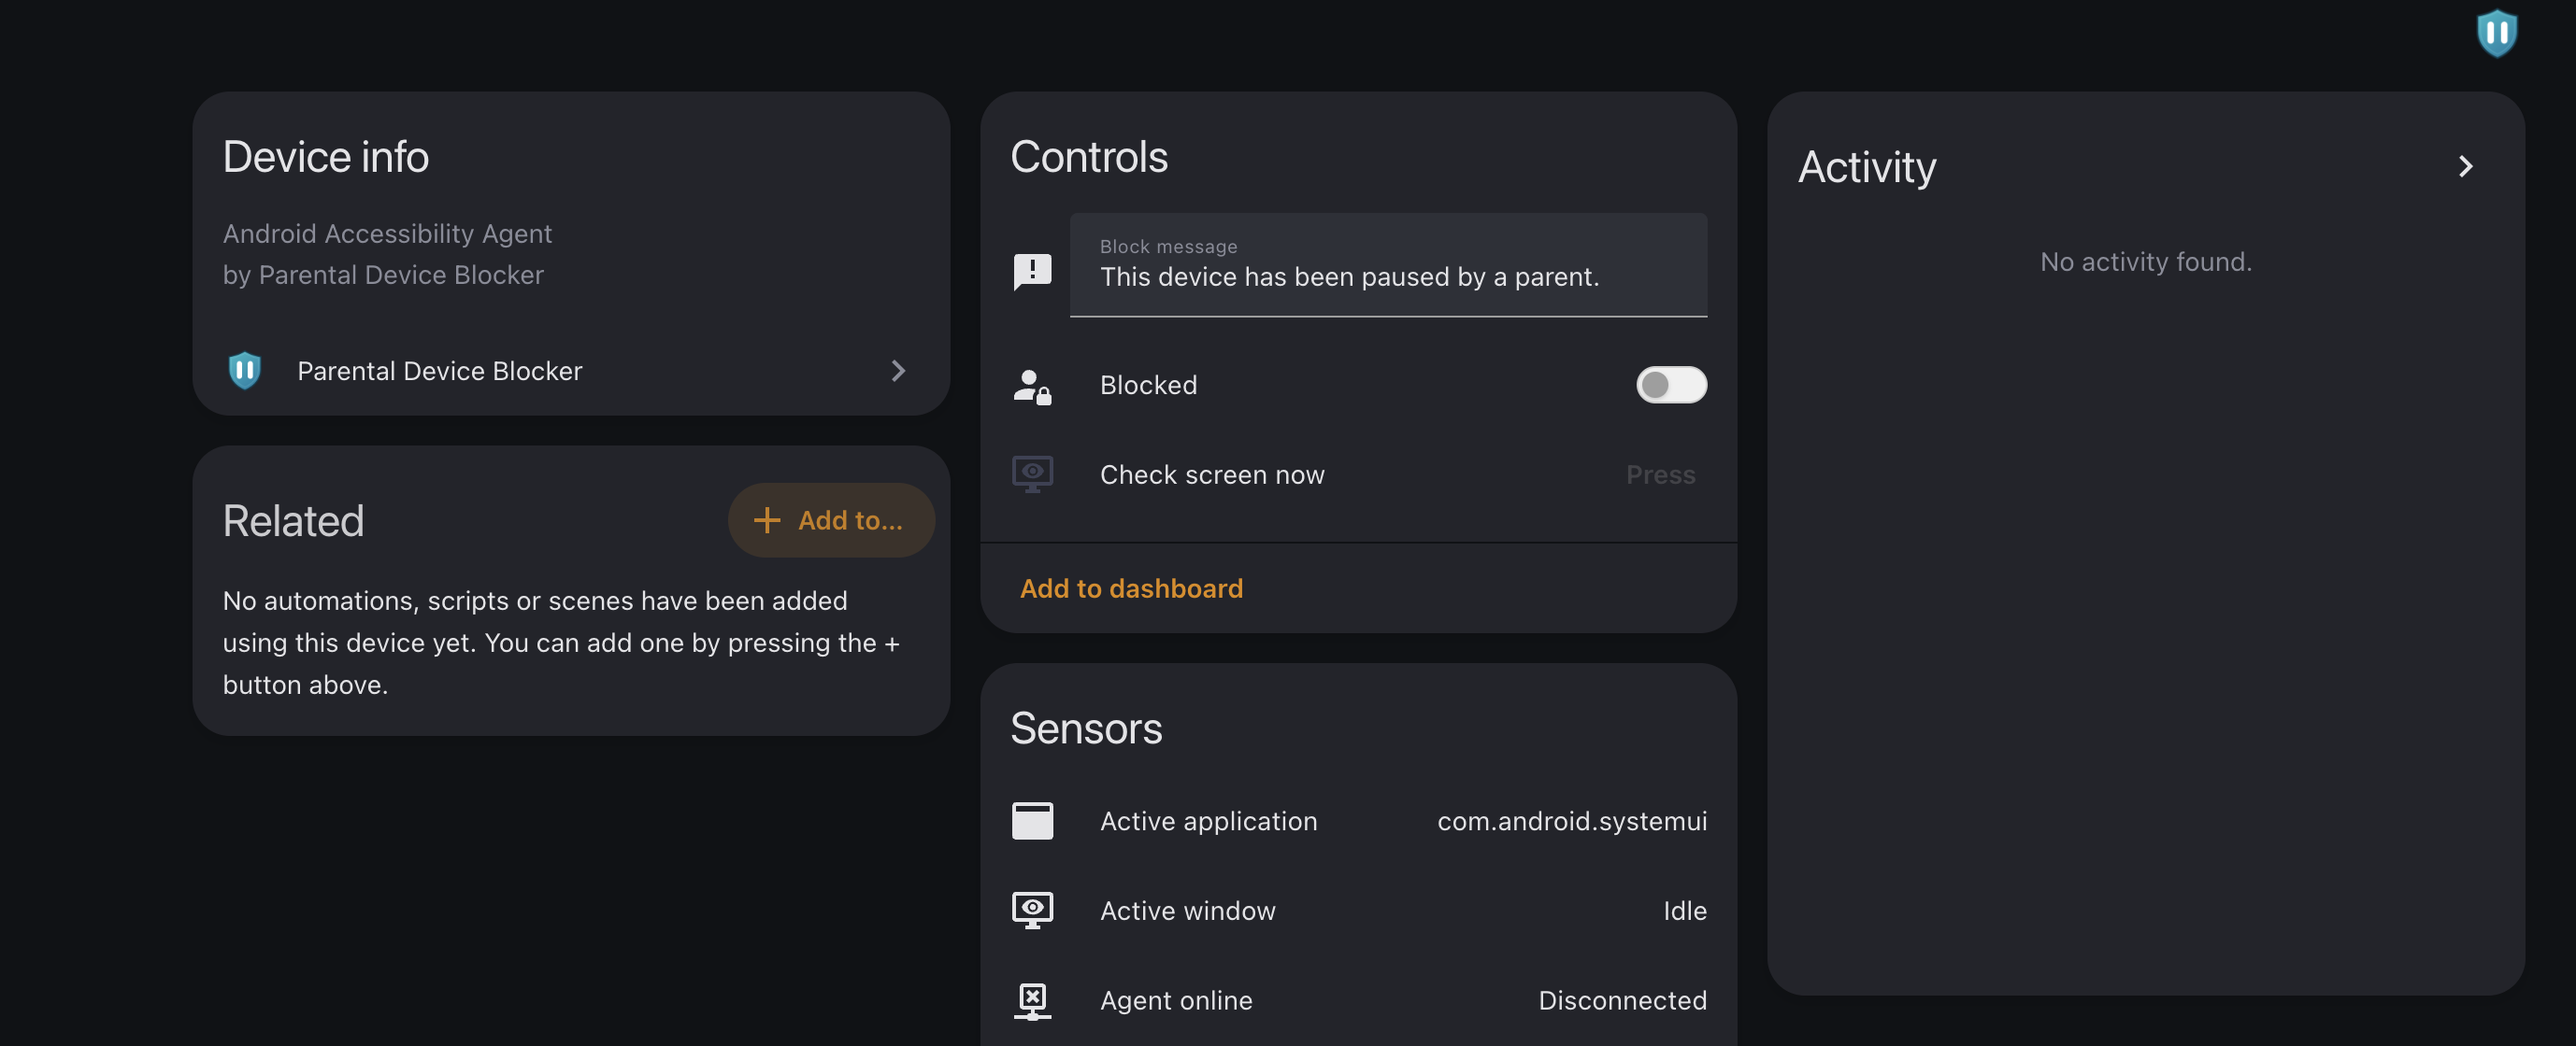
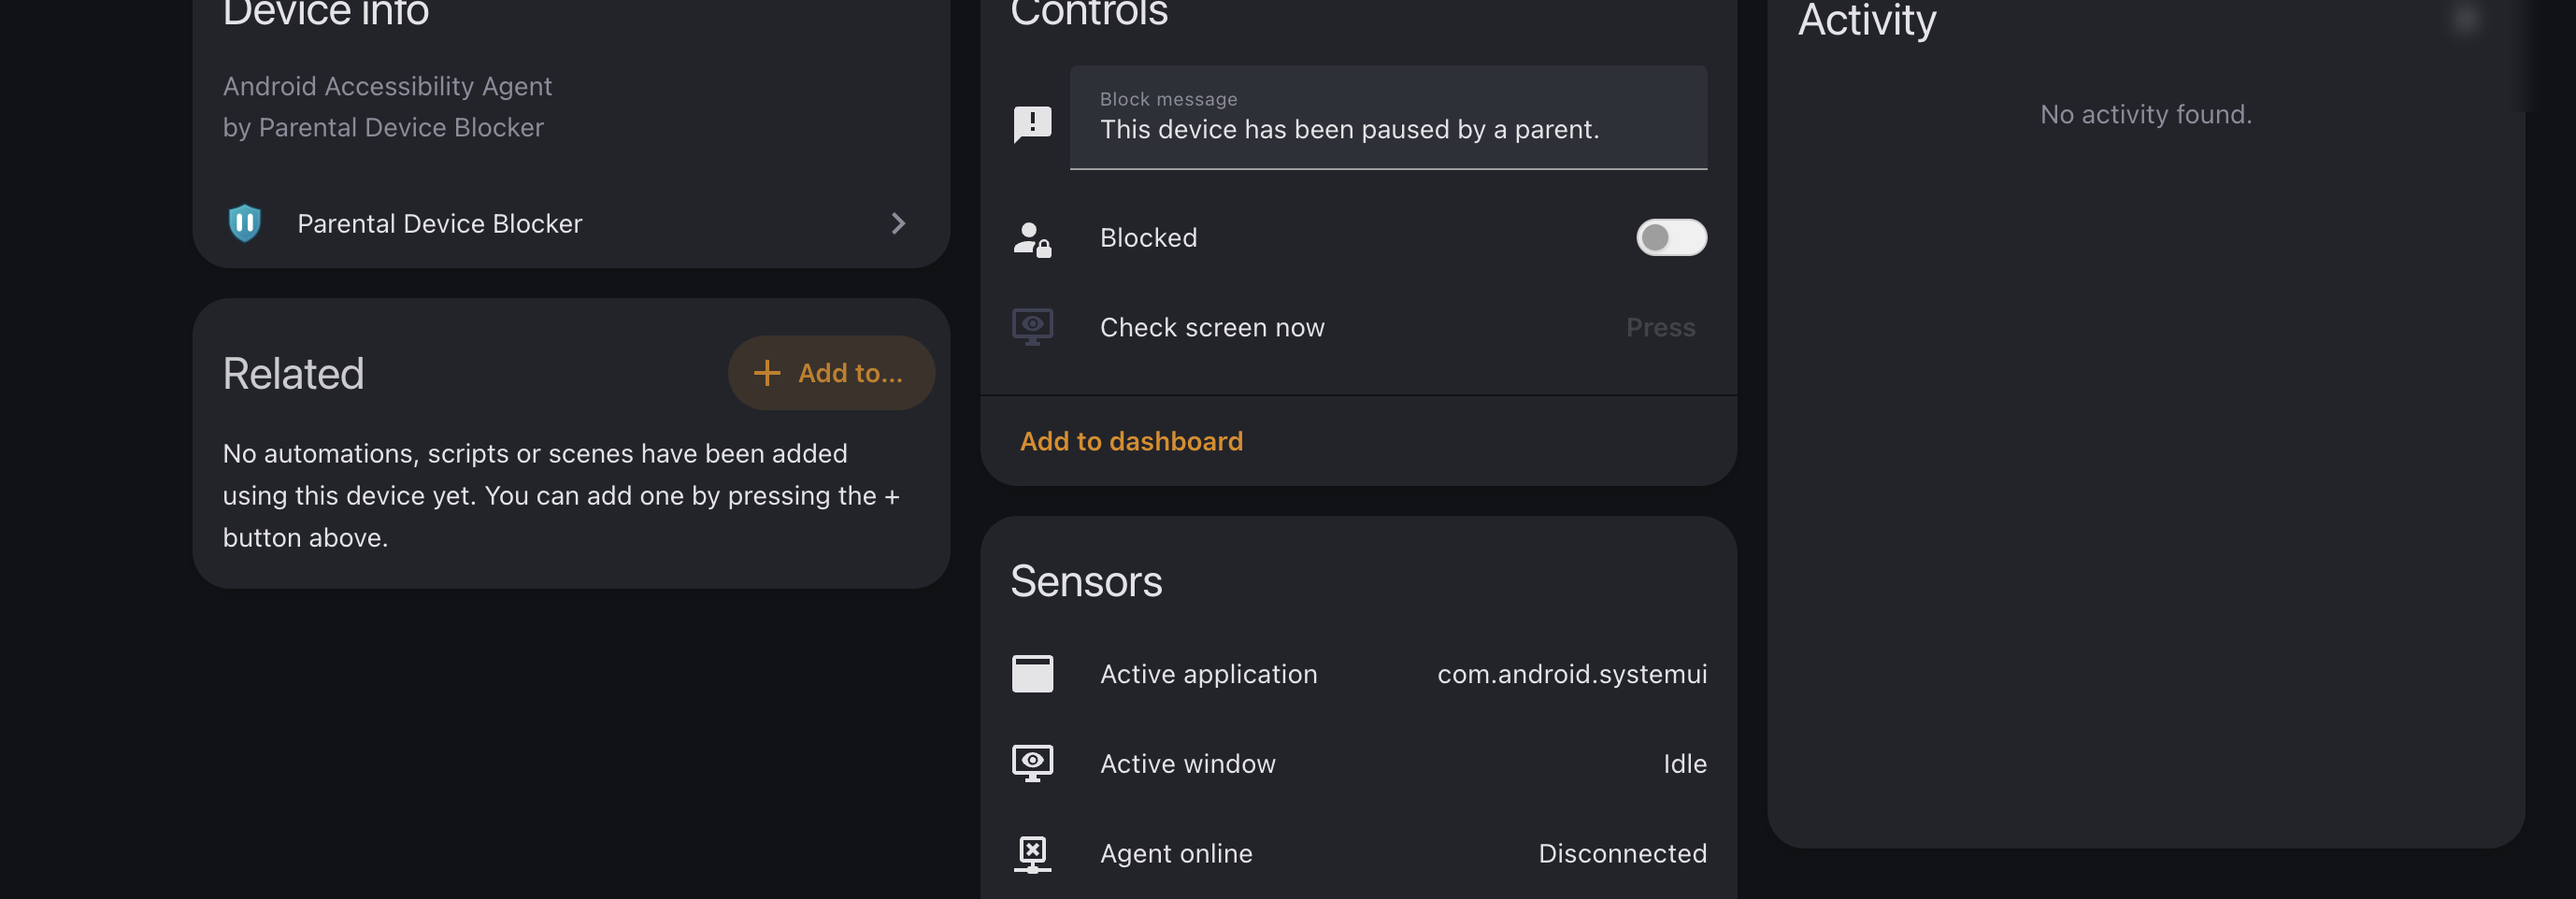
Scrub personal names; crop device page screenshot
Replace Child One/Two and child_* example IDs with kid1/kid2 placeholders.
Rewrite LEAK_AUDIT without personal names; document legacy rowe_* identifiers.
Crop HA header from device-page.png and blur residual top-right chrome.

diff --git a/tests/test_portal.py b/tests/test_portal.py
@@ -25,32 +25,32 @@ class PortalTests(unittest.TestCase):
         self.points = [
             {
                 "state": "0",
-                "attributes": {"child_id": "child-one-id", "child_name": "Child One"},
+                "attributes": {"child_id": "kid1-id", "child_name": "Kid 1"},
             },
             {
                 "state": "160",
-                "attributes": {"child_id": "child-two-id", "child_name": "Child Two"},
+                "attributes": {"child_id": "kid2-id", "child_name": "Kid 2"},
             },
         ]
 
     def test_child_resolution_uses_installed_windows_account(self) -> None:
         self.assertEqual(
-            resolve_child_identity("childone", "Child One PC", self.points),
-            ChildIdentity("child-one-id", "Child One"),
+            resolve_child_identity("kid1", "Kid 1 PC", self.points),
+            ChildIdentity("kid1-id", "Kid 1"),
         )
         self.assertEqual(
-            resolve_child_identity("childtwo", "Child Two PC", self.points),
-            ChildIdentity("child-two-id", "Child Two"),
+            resolve_child_identity("kid2", "Kid 2 PC", self.points),
+            ChildIdentity("kid2-id", "Kid 2"),
         )
 
     def test_unique_shortened_account_name_is_supported(self) -> None:
         self.assertEqual(
-            resolve_child_identity("childt", "Bedroom PC", self.points),
-            ChildIdentity("child-two-id", "Child Two"),
+            resolve_child_identity("kid2", "Bedroom PC", self.points),
+            ChildIdentity("kid2-id", "Kid 2"),
         )
 
     def test_snapshot_never_contains_the_other_child_activity(self) -> None:
-        child = ChildIdentity("child-two-id", "Child Two")
+        child = ChildIdentity("kid2-id", "Kid 2")
         entities = {
             "points": {
                 "state": "160",
@@ -69,7 +69,7 @@ class PortalTests(unittest.TestCase):
             "chores": {"attributes": {"todays_completions": []}},
             "availability": {
                 "attributes": {
-                    "chore_availability": {"chore-1": {"child-two-id": True}}
+                    "chore_availability": {"chore-1": {"kid2-id": True}}
                 }
             },
             "rewards": {
@@ -79,14 +79,14 @@ class PortalTests(unittest.TestCase):
                             "id": "reward-1",
                             "name": "Extra time",
                             "cost": 20,
-                            "assigned_to": ["child-two-id"],
+                            "assigned_to": ["kid2-id"],
                             "is_available": True,
                         },
                         {
-                            "id": "child-one-only",
-                            "name": "Child One item",
+                            "id": "kid1-only",
+                            "name": "Kid 1 item",
                             "cost": 1,
-                            "assigned_to": ["child-one-id"],
+                            "assigned_to": ["kid1-id"],
                             "is_available": True,
                         },
                     ]
@@ -96,13 +96,13 @@ class PortalTests(unittest.TestCase):
                 "attributes": {
                     "recent_transactions": [
                         {
-                            "child_id": "child-two-id",
+                            "child_id": "kid2-id",
                             "points": -20,
                             "reason": "Extra time",
                             "created_at": "2026-07-22T12:00:00+00:00",
                         },
                         {
-                            "child_id": "child-one-id",
+                            "child_id": "kid1-id",
                             "points": -999,
                             "reason": "Must not leak",
                             "created_at": "2026-07-22T13:00:00+00:00",
@@ -115,14 +115,14 @@ class PortalTests(unittest.TestCase):
             {
                 "state": "unknown",
                 "attributes": {
-                    "child_id": "child-two-id",
+                    "child_id": "kid2-id",
                     "chore_id": "chore-1",
                 },
             },
             {
                 "state": "unknown",
                 "attributes": {
-                    "child_id": "child-two-id",
+                    "child_id": "kid2-id",
                     "reward_id": "reward-1",
                 },
             },
@@ -137,25 +137,25 @@ class PortalTests(unittest.TestCase):
         self.assertEqual([item["reason"] for item in snapshot["activity"]], ["Extra time"])
 
     def test_time_offers_surface_screen_time_rewards(self):
-        child = ChildIdentity(child_id="kid-1", name="Child One")
+        child = ChildIdentity(child_id="kid1-id", name="Kid 1")
         entities = {
             "points": {"state": "50", "attributes": {"unit_of_measurement": "Stars"}},
             "rewards": {"attributes": {"rewards": [
                 {"id": "r-evening", "name": "PC time until 10:30pm", "cost": 20,
-                 "assigned_to": ["kid-1"], "is_available": True,
-                 "calculated_costs": {"kid-1": 20}},
+                 "assigned_to": ["kid1-id"], "is_available": True,
+                 "calculated_costs": {"kid1-id": 20}},
                 {"id": "r-morning", "name": "Early morning PC time", "cost": 100,
-                 "assigned_to": ["kid-1"], "is_available": True,
-                 "calculated_costs": {"kid-1": 100}},
+                 "assigned_to": ["kid1-id"], "is_available": True,
+                 "calculated_costs": {"kid1-id": 100}},
                 {"id": "r-voucher", "name": "£10 Roblox voucher", "cost": 10000,
                  "assigned_to": [], "is_available": True,
-                 "calculated_costs": {"kid-1": 10000}},
+                 "calculated_costs": {"kid1-id": 10000}},
             ]}},
         }
         buttons = [
-            {"state": "unknown", "attributes": {"child_id": "kid-1", "reward_id": "r-evening"}},
-            {"state": "unknown", "attributes": {"child_id": "kid-1", "reward_id": "r-morning"}},
-            {"state": "unknown", "attributes": {"child_id": "kid-1", "reward_id": "r-voucher"}},
+            {"state": "unknown", "attributes": {"child_id": "kid1-id", "reward_id": "r-evening"}},
+            {"state": "unknown", "attributes": {"child_id": "kid1-id", "reward_id": "r-morning"}},
+            {"state": "unknown", "attributes": {"child_id": "kid1-id", "reward_id": "r-voucher"}},
         ]
 
         snapshot = build_portal_snapshot(child, entities, buttons)

diff --git a/scripts/capture_ha_screenshots.py b/scripts/capture_ha_screenshots.py
@@ -82,7 +82,7 @@ async def _ensure_device(session: aiohttp.ClientSession, token: str) -> None:
         headers=headers,
         json={
             "device_id": "demo-child-pc",
-            "device_name": "Demo Child PC",
+            "device_name": "Child PC",
             "device_type": "windows",
             "windows_username": "child",
             "api_key": "demo-api-key-replace-in-production-32chars",
@@ -213,7 +213,7 @@ async def main() -> None:
                 await page.screenshot(path=str(OUT / "options-flow.png"), full_page=True)
 
         await page.goto(f"{HA_URL}/config/devices/dashboard", wait_until="networkidle")
-        device = page.get_by_text("Demo Child PC").first
+        device = page.get_by_text("Child PC").first
         if await device.count():
             await device.click()
             await page.wait_for_timeout(1500)

diff --git a/tests/test_public_release.py b/tests/test_public_release.py
@@ -52,12 +52,19 @@ class PublicReleaseTests(unittest.TestCase):
             "s3" + ".rowe.lol",
             "john" + " rowe",
             "rowe" + " device blocker",
+            "vick" + "y",
+            "matt" + "hew",
+            "alex" + "ander",
+            "john" + "son",
         )
         ignored = {".git", "artifacts", "bin", "obj", "__pycache__"}
         for path in ROOT.rglob("*"):
             if not path.is_file() or any(part in ignored for part in path.parts):
                 continue
-            if path == ROOT / "docs" / "LEAK_AUDIT.md":
+            if path in {
+                ROOT / "docs" / "LEAK_AUDIT.md",
+                ROOT / "tests" / "test_public_release.py",
+            }:
                 continue
             try:
                 text = path.read_text(encoding="utf-8").lower()

diff --git a/tests/test_activity_journal.py b/tests/test_activity_journal.py
@@ -51,7 +51,7 @@ class ActivityJournalTests(unittest.TestCase):
             ),
         ]
         report = JOURNAL.build_activity_report(
-            records, child_name="Child One", now=now, period="week"
+            records, child_name="Kid 1", now=now, period="week"
         )
         self.assertEqual(report["checks"], 2)
         self.assertEqual(report["highest_risk_level"], "high")
@@ -71,7 +71,7 @@ class ActivityJournalTests(unittest.TestCase):
             )
         ]
         report = JOURNAL.build_activity_report(
-            records, child_name="Child Two", now=now, period="today"
+            records, child_name="Kid 2", now=now, period="today"
         )
         self.assertEqual(report["checks"], 1)
 

diff --git a/scripts/ha_ws_helper.py b/scripts/ha_ws_helper.py
@@ -87,10 +87,10 @@ async def ensure_integration() -> None:
                 "type": "config_entries/flow/submit",
                 "flow_id": flow_id,
                 "user_input": {
-                    "device_id": "demo-child-pc",
-                    "device_name": "Demo Child PC",
+                    "device_id": "kid1-pc",
+                    "device_name": "Child PC",
                     "device_type": "windows",
-                    "windows_username": "child",
+                    "windows_username": "kid1",
                     "api_key": "demo-api-key-replace-in-production-32chars",
                 },
             }

diff --git a/docs/LEAK_AUDIT.md b/docs/LEAK_AUDIT.md
@@ -6,17 +6,17 @@ Automated and manual review of the **full git history** (all fetched branches/ta
 
 | Tool | Scope | Result |
 |------|--------|--------|
-| [gitleaks](https://github.com/gitleaks/gitleaks) v8.21.2 | All commits (`gitleaks detect --source .`) | 2 findings (test fixtures; see below) |
+| [gitleaks](https://github.com/gitleaks/gitleaks) v8.21.2 | All commits (`gitleaks detect --source .`) | Clean with `.gitleaks.toml` test allowlist |
 | `git log -p` + pattern search | Names, emails, LAN/Tailscale, hostnames, AWS keys | See § History |
 | `tests/test_public_release.py` | Current tree forbidden substrings | Passes |
 
 ## Current tree (clean)
 
-- No household hostnames (`*.rowe.lol`, `homeassistant.rowe.lol`, `s3.rowe.lol`), device keys, AWS keys, or child-specific Windows account names in tracked files.
+- No household hostnames (`*.rowe.lol`, private HA hostnames, S3 backup hosts), device keys, AWS keys, or child-specific Windows account names in tracked files.
 - `tests/test_public_release.py` encodes forbidden literals to block reintroduction.
 - `android/.../AppConfigTest.java` uses **generic** `http://192.168.1.20:8123` (RFC5737-style documentation example, not a household address).
-- `docs/screenshots/` contains maintainer-supplied UI captures only (generated mock screenshots removed).
-- `scripts/capture_ha_screenshots.py` and `scripts/ha_ws_helper.py` no longer embed demo Home Assistant credentials (use `PDB_HA_URL`, `PDB_HA_USERNAME`, `PDB_HA_PASSWORD` for local demos).
+- `docs/screenshots/` contains maintainer-supplied UI captures only (header/breadcrumb cropped; generated mocks removed).
+- `scripts/capture_ha_screenshots.py` and `scripts/ha_ws_helper.py` use environment variables for local demo credentials (`PDB_HA_*`).
 
 ### gitleaks false positives (current tree)
 
@@ -28,11 +28,11 @@ Allowlisted via `.gitleaks.toml` for CI repeatability.
 
 ## History findings (requires owner decision)
 
-### 1. Child names in tests — branch `origin/release/0.9.37` only
+### 1. Personal child names in tests — branch `origin/release/0.9.37` only
 
 | Commit | Content |
 |--------|---------|
-| `d8c3ef1` | `tests/test_portal.py` uses example children **Matthew** and **Alex** |
+| `d8c3ef1` | `tests/test_portal.py` used real child names in examples (scrubbed on `main` to `kid1` / `kid2` style placeholders) |
 
 **Not on `main`** as of audit. Still reachable via `origin/release/0.9.37`.
 
@@ -43,17 +43,13 @@ git filter-repo --force \
   --invert-paths \
   --path tests/test_portal.py \
   --refs refs/remotes/origin/release/0.9.37
-# Or replace names in that file across all refs:
-git filter-repo --force \
-  --replace-text <(printf 'Matthew==>Child One\nAlex==>Child Two\nmatthew==>childone\n') \
-  --refs refs/remotes/origin/release/0.9.37
 ```
 
 Then delete or force-update the remote branch after owner review.
 
 ### 2. Author email in commit metadata
 
-Many early commits use `johnrowe551@gmail.com` / `John Rowe` as **author** (public GitHub identity, not a deploy secret). This is normal for open-source attribution; rewrite only if the owner wants a different email on old commits:
+Early commits may use a personal GitHub author email in **metadata** (public attribution, not a deploy secret). Rewrite only if the owner wants a different email on old commits:
 
 ```bash
 git filter-repo --force --mailmap my-mailmap.txt
@@ -61,11 +57,11 @@ git filter-repo --force --mailmap my-mailmap.txt
 
 ### 3. Demo Home Assistant password in agent branch commits
 
-Commits on `cursorremove-s3-branding-protocol-5c12` briefly added `scripts/capture_ha_screenshots.py` with a local demo password (`DemoPass123!`) for VM screenshots. **Not a production credential**; removed from the tree. If that branch was never used against a real instance, no rotation needed.
+Commits on feature branches briefly added `scripts/capture_ha_screenshots.py` with a local demo password for VM screenshots. **Not a production credential**; removed from the tree. If that branch was never used against a real instance, no rotation needed.
 
 ### 4. Initial release scrub (`c80baa6`)
 
-`test_public_release.py` was added explicitly to forbid household strings (`matthewpc`, `homeassistant.rowe.lol`, `7b0e3e640602`, etc.). No those strings remain in `main` tree.
+`test_public_release.py` was added explicitly to forbid household strings (legacy Windows account slug, private hostnames, sample device key fragments, etc.). Those strings do not remain in the `main` tree.
 
 ## Live secrets — rotation checklist
 
@@ -75,9 +71,21 @@ Commits on `cursorremove-s3-branding-protocol-5c12` briefly added `scripts/captu
 | Home Assistant long-lived tokens in git | **None found** |
 | Device API keys in git | **None found** |
 | Android release keystore in git | **None found** (signing stays in `~/.config/parental-device-blocker/`) |
-| Public HA URL / device keys on Matthew’s PC | **Out of repo scope** — rotate via integration **Reconfigure** if ever committed or logged |
+| Device keys on a household PC | **Out of repo scope** — rotate via integration **Reconfigure** if ever committed or logged |
 
 If `origin/release/0.9.37` was pushed from a household fork, treat device keys configured on that build as unchanged by this audit.
+
+## Legacy protocol names (intentionally unchanged)
+
+These identifiers remain for **wire and deployment compatibility** with shipped Windows/Android agents:
+
+- Home Assistant domain / folder: `rowe_pc_blocker`
+- API path prefix: `/api/rowe_pc_blocker/`
+- Legacy auth header: `X-Rowe-Key`
+- Windows projects/services: `RowePcBlocker`, `RowePcActivity`
+- Android package: `lol.rowe.blocker`
+
+User-facing branding is **Parental Device Blocker**; `rowe_*` names are legacy technical identifiers only.
 
 ## Ongoing prevention
 

diff --git a/README.md b/README.md
@@ -60,7 +60,9 @@ Wire protocol (unchanged): [`docs/PROTOCOL.md`](docs/PROTOCOL.md).
 
 Sideload APK from `./scripts/build-android-docker.sh`. Server-mediated S3 media backup was **removed in 0.10.0**; legacy `/backup/*` API paths still return `enabled: false` so older app builds fail gracefully. See [android deploy checklist](docs/android-deploy-checklist.md).
 
-## Compatibility identifiers
+## Compatibility identifiers (legacy names)
+
+Shipped agents depend on these **technical** identifiers. User-facing branding is *Parental Device Blocker*; do not rename these in releases without a coordinated client migration.
 
 | Token | Value |
 | --- | --- |
@@ -68,6 +70,7 @@ Sideload APK from `./scripts/build-android-docker.sh`. Server-mediated S3 media 
 | API prefix | `/api/rowe_pc_blocker/` |
 | Preferred auth header | `X-Device-Blocker-Key` |
 | Legacy auth header | `X-Rowe-Key` |
+| Windows service / binaries | `RowePcBlocker`, `RowePcActivity` |
 | Android application ID | `lol.rowe.blocker` |
 
 ## Development

diff --git a/docs/PROTOCOL.md b/docs/PROTOCOL.md
@@ -1,6 +1,6 @@
 # Agent wire protocol
 
-This document describes the HTTP API between **Parental Device Blocker** Home Assistant integration and installed agents (Windows `RowePcBlocker` / `RowePcActivity`, Android `lol.rowe.blocker`). Paths and JSON field names are compatibility contracts: clients in the field depend on them.
+This document describes the HTTP API between **Parental Device Blocker** Home Assistant integration and installed agents (Windows `RowePcBlocker` / `RowePcActivity`, Android `lol.rowe.blocker`). Paths and JSON field names are compatibility contracts: clients in the field depend on them. The `rowe_*` prefix is a **legacy technical name** kept for backward compatibility with deployed agents—not the product brand.
 
 Base URL: `{HomeAssistantUrl}` (no trailing slash required on the client; paths are rooted at `/api/rowe_pc_blocker/`).
 

diff --git a/CHANGELOG.md b/CHANGELOG.md
@@ -6,7 +6,7 @@
 
 - Harden all `/api/rowe_pc_blocker/` views: constant-time device key checks, per-IP auth throttling, integration with Home Assistant `ip_ban` on `401`, uniform unauthorized responses, JSON body size limits, portal session cookies, and browser CSRF checks on `/portal/action` and `/parent_override`.
 - Enforce ≥128-bit API keys, and add a **Reconfigure** flow to rotate a device key.
-- Leak audit (`docs/LEAK_AUDIT.md`), gitleaks in CI, and removal of generated README screenshots (replaced with maintainer-supplied device page capture).
+- Leak audit (`docs/LEAK_AUDIT.md`), gitleaks in CI, removal of generated README screenshots, and scrub of personal names from docs/examples (legacy `rowe_*` protocol identifiers unchanged).
 
 ### Added
 
